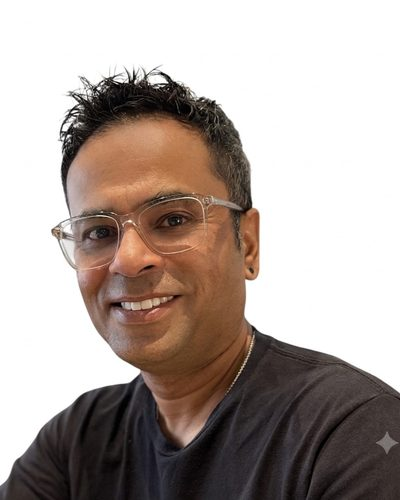
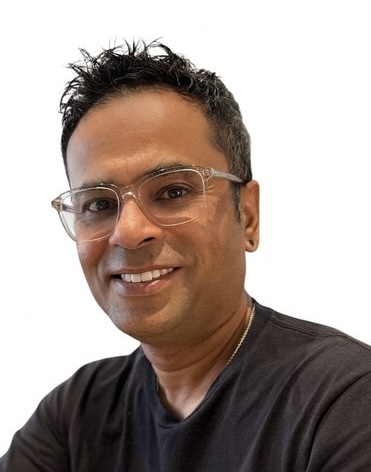
kjmd 2026

diff --git a/_layouts/custom_programs.html b/_layouts/custom_programs.html
@@ -53,7 +53,7 @@ layout: default
 
           .sched-row {
             display: grid;
-            grid-template-columns: 145px 250px 1fr;
+            grid-template-columns: 145px 1fr;
             gap: 1.5rem;
             align-items: baseline;
             padding: 1.15rem 0;
@@ -70,6 +70,11 @@ layout: default
             white-space: nowrap;
           }
 
+          .sched-body {
+            display: block;
+            line-height: 1.6;
+          }
+
           .sched-session {
             font-size: .72rem;
             font-weight: 600;
@@ -81,10 +86,22 @@ layout: default
              the accent so the shape of the program is legible at a glance. */
           .sched-row.is-feature .sched-session { color: var(--accent); }
 
+          /* The detail continues the session label on the same line, so a
+             keynote reads as one phrase: KEYNOTE — Prof. Sourav S. Bhowmick */
           .sched-detail {
             color: var(--ink-soft);
             line-height: 1.6;
+            text-transform: none;
+            letter-spacing: 0;
+            font-size: 1rem;
+            font-weight: 400;
           }
+          .sched-detail::before {
+            content: "\2014";
+            margin: 0 .55rem 0 .5rem;
+            color: var(--rule);
+          }
+          .sched-detail a { color: var(--accent); }
 
           @media (max-width: 780px) {
             .sched-row {
@@ -110,12 +127,16 @@ layout: default
 
             <li class="sched-row{% if row.highlight %} is-feature{% endif %}">
               <span class="sched-time">{{ row.time }}</span>
-              <span class="sched-session">{{ row.session }}</span>
-              <span class="sched-detail">
-                {%- if row.link -%}
-                  <a href="{{ row.link | relative_url }}">{{ row.details }}</a>
-                {%- else -%}
-                  {{ row.details }}
+              <span class="sched-body">
+                <span class="sched-session">{{ row.session }}</span>
+                {%- if row.details -%}
+                  <span class="sched-detail">
+                    {%- if row.link -%}
+                      <a href="{{ row.link | relative_url }}">{{ row.details }}</a>
+                    {%- else -%}
+                      {{ row.details }}
+                    {%- endif -%}
+                  </span>
                 {%- endif -%}
               </span>
             </li>

diff --git a/_layouts/custom_keynotes.html b/_layouts/custom_keynotes.html
@@ -125,6 +125,8 @@ layout: default
             max-width: 72ch;
             color: var(--ink-soft);
             line-height: 1.75;
+            text-align: justify;
+            hyphens: auto;
           }
           .kn-section p:last-child { margin-bottom: 0; }
 
@@ -141,6 +143,7 @@ layout: default
           @media (max-width: 700px) {
             .kn-head { grid-template-columns: 1fr; gap: 1.5rem; }
             .kn-portrait { max-width: 180px; }
+            .kn-section p { text-align: left; hyphens: none; }
             .kn-section p.has-dropcap::first-letter { font-size: 2.8em; }
           }
         </style>

diff --git a/_layouts/custom_accommodations.html b/_layouts/custom_accommodations.html
@@ -26,8 +26,14 @@ layout: default
           }
 
           .place-photo { margin: 0 0 3rem; }
+          /* A wide crop rather than the full frame: the photo is context,
+             not the subject of the page. */
           .place-photo img {
-            width: 100%; height: auto;
+            width: 100%;
+            height: auto;
+            max-height: 320px;
+            object-fit: cover;
+            object-position: center;
             display: block;
             border-radius: 2px;
           }

diff --git a/_layouts/custom_venue.html b/_layouts/custom_venue.html
@@ -26,8 +26,14 @@ layout: default
           }
 
           .place-photo { margin: 0 0 3rem; }
+          /* A wide crop rather than the full frame: the photo is context,
+             not the subject of the page. */
           .place-photo img {
-            width: 100%; height: auto;
+            width: 100%;
+            height: auto;
+            max-height: 320px;
+            object-fit: cover;
+            object-position: center;
             display: block;
             border-radius: 2px;
           }

diff --git a/_layouts/custom_conference_officers.html b/_layouts/custom_conference_officers.html
@@ -205,7 +205,7 @@ layout: default
                 {% if person.url %}
                   <a class="org-link" href="{{ person.url }}" target="_blank" rel="noopener"
                      aria-label="{{ person.name }} homepage" title="{{ person.name }} homepage">
-                    <i class="fas fa-link" aria-hidden="true"></i>
+                    <i class="fas fa-home" aria-hidden="true"></i>
                   </a>
                 {% endif %}
               </li>
